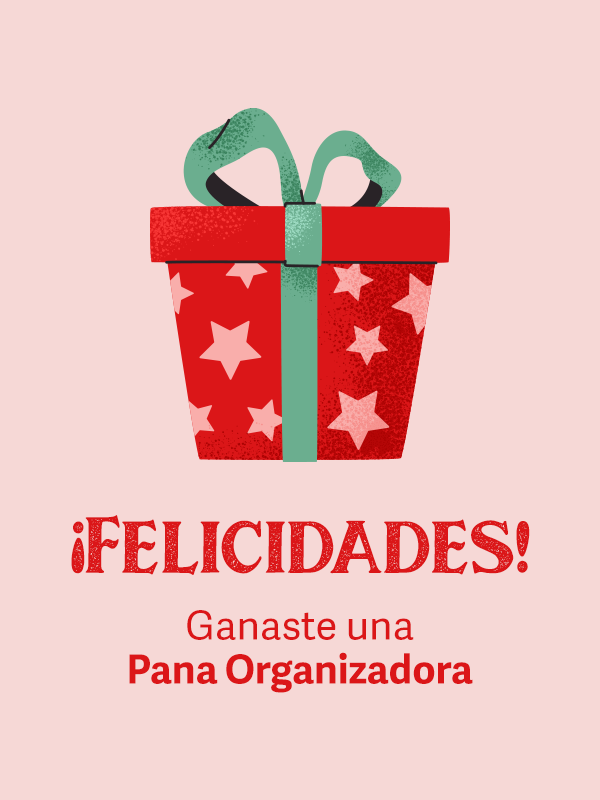
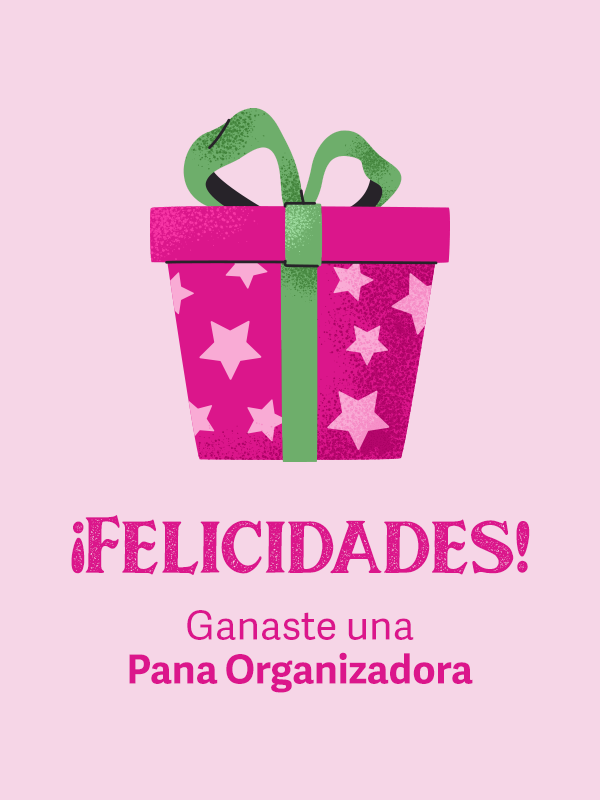
Promo dia de la mujer

Changed region(s): [[0.24, 0.125, 0.75, 0.5938], [0.12, 0.625, 0.9, 0.7188], [0.21, 0.75, 0.78, 0.875]]

diff --git a/script.js b/script.js
@@ -12,7 +12,7 @@ const premios = [
   { nombre: 'Ganaste un Exhibidor de Aritos', peso: 20, real: true },
   { nombre: 'Ganaste una Pana Organizadora', peso: 10, real: true },
   { nombre: 'Ganaste una Ristra de cristal de forma', peso: 20, real: true },
-  { nombre: 'Gracias por participar', peso: 20, real: false },
+  { nombre: '1 Par de aretes', peso: 20, real: true },
 ]
 
 let spinning = false
@@ -94,7 +94,7 @@ resetBtn.onclick = () => {
 
   // Resetear transform de TODAS las cartas
   cards.forEach(
-    (c) => (c.querySelector('.card-inner').style.transform = 'rotateY(0deg)')
+    (c) => (c.querySelector('.card-inner').style.transform = 'rotateY(0deg)'),
   )
 
   spinBtn.disabled = false
@@ -132,7 +132,7 @@ function startSnow() {
   setInterval(() => {
     const flake = document.createElement('span')
     flake.classList.add('snowflake')
-    flake.textContent = '❄'
+    flake.textContent = '♥'
     flake.style.left = Math.random() * 150 + 'vw'
     flake.style.fontSize = 10 + Math.random() * 20 + 'px'
     flake.style.animationDuration = 10 + Math.random() * 5 + 's'

diff --git a/style.css b/style.css
@@ -1,6 +1,6 @@
 :root {
-  --bg: #16240fff;
-  --card-front: #d42629;
+  --bg: rgb(255, 210, 253);
+  --card-front: #fcceff;
   --card-back: #f6d8d6;
   --muted: #94a3b8;
 }
@@ -11,8 +11,8 @@
 
 body {
   font-family: Inter, system-ui, Arial;
-  background: #001409ff;
-  color: #fff;
+  background: rgb(255, 232, 250);
+  color: #240012;
   min-height: 100vh;
   display: flex;
   align-items: flex-start;
@@ -43,9 +43,9 @@ h1 {
 }
 
 .card.winner {
-  border: 4px solid red;
+  border: 4px solid #880b6d;
   border-radius: 16px;
-  box-shadow: 0 0 20px red;
+  box-shadow: 0 0 20px #880b6d;
 }
 
 .card {
@@ -109,7 +109,7 @@ h1 {
 }
 
 button {
-  background: var(--card-front);
+  background: #880b6d;
   color: #fff;
   border: none;
   padding: 12px 92px;
@@ -121,7 +121,8 @@ button {
 
 button.secondary {
   background: transparent;
-  border: 1px solid rgba(255, 255, 255, 0.2);
+  color: #880b6d;
+  border: 1px solid #880b6d;
 }
 
 .modal {
